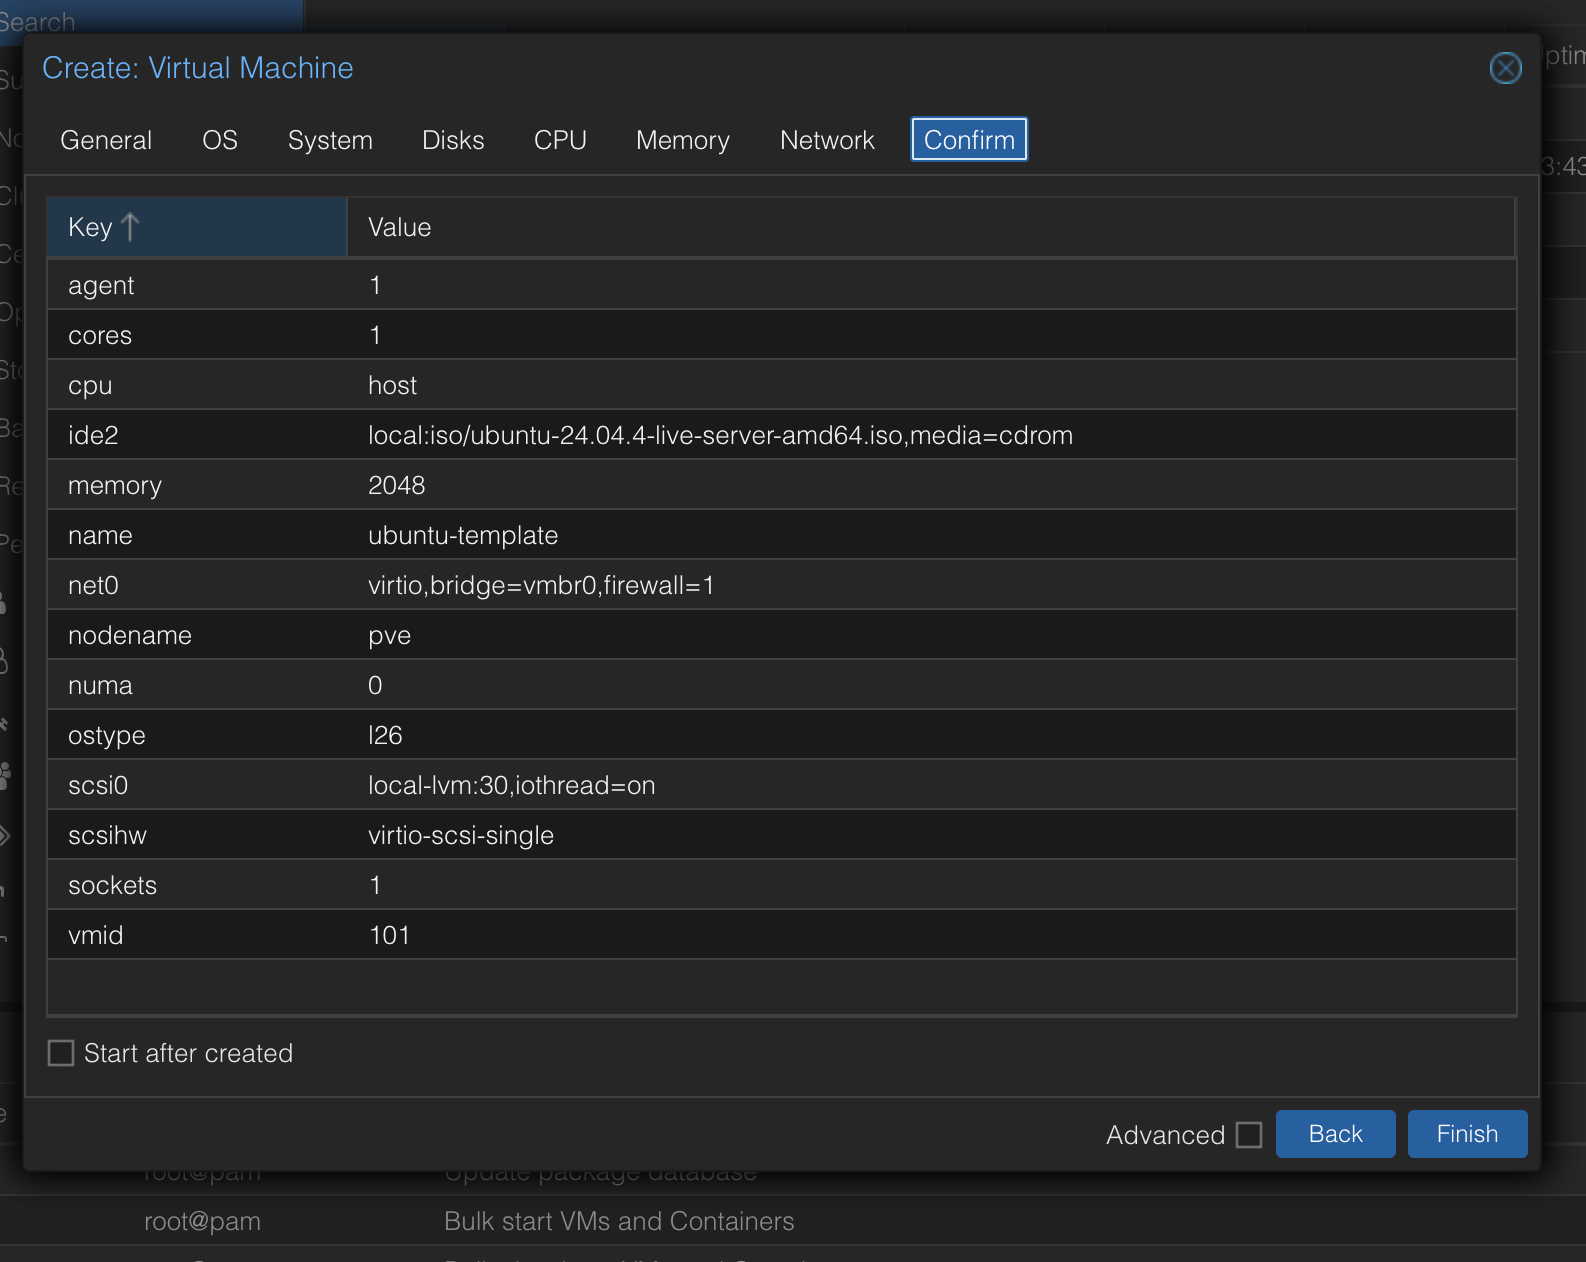
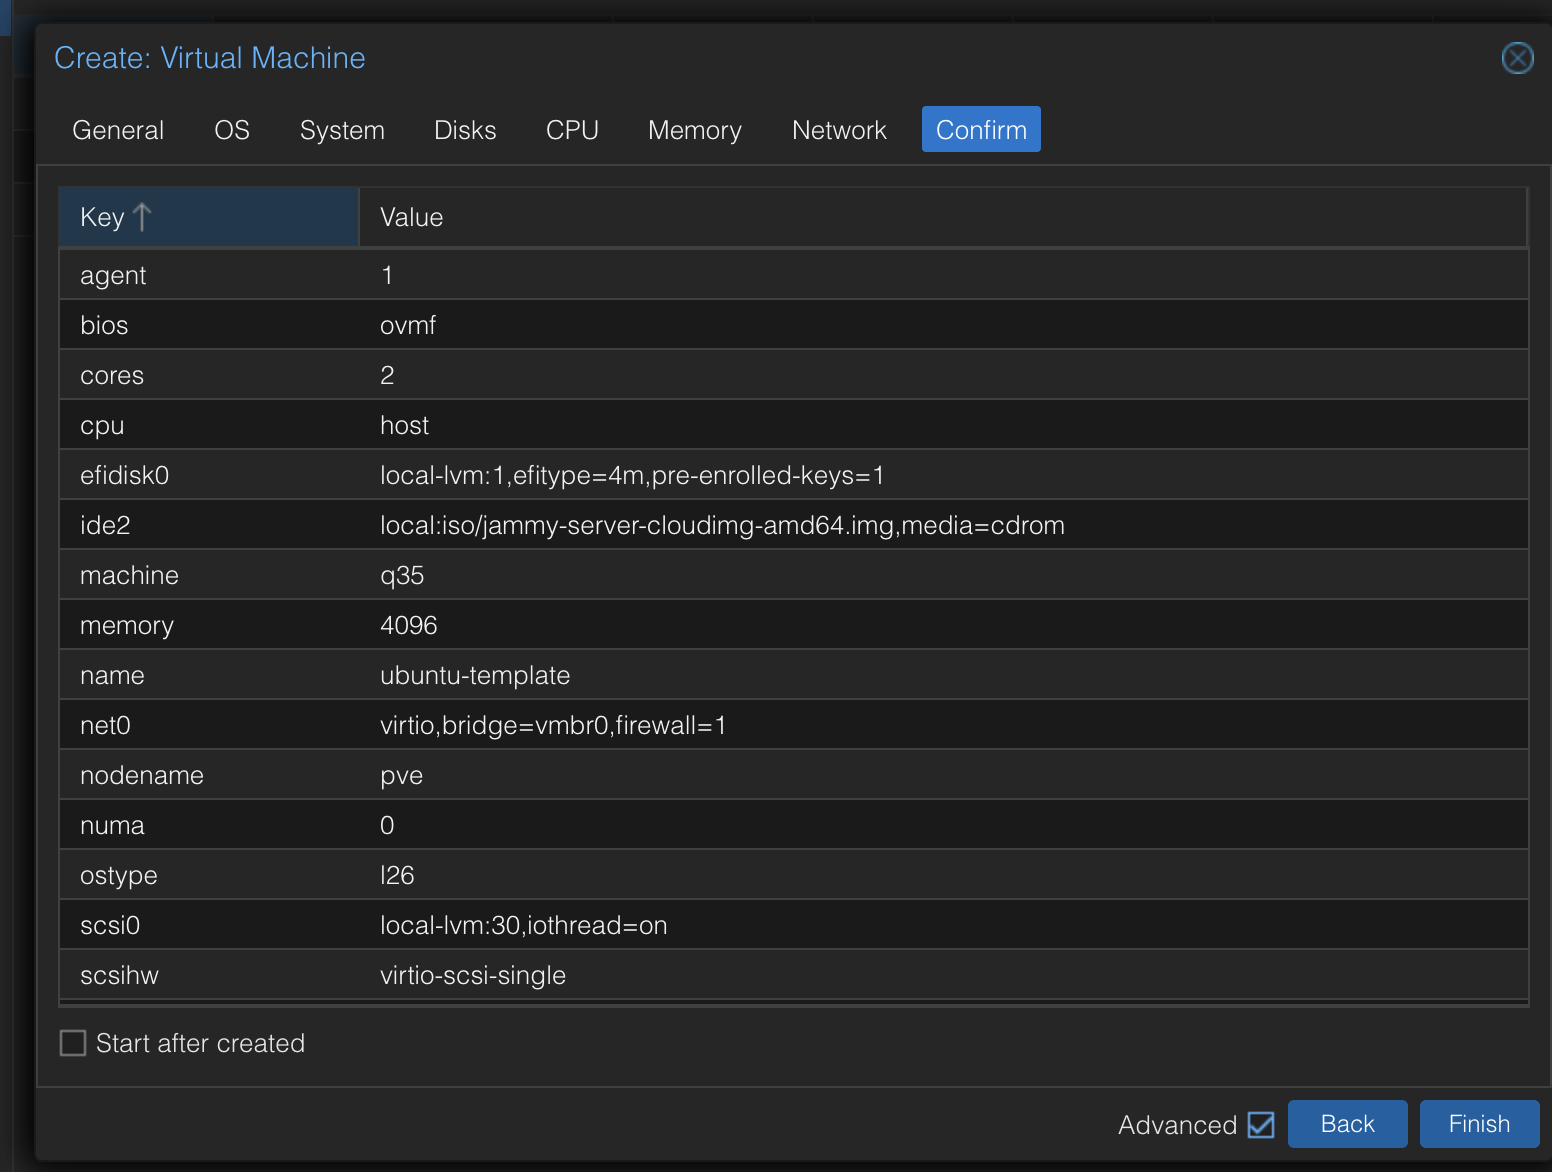
update img

diff --git a/README.md b/README.md
@@ -313,6 +313,8 @@ terraform init
 
 ![image](./img/basic_vm_8.png)
 
+![image](./img/basic_vm_9.png)
+
 🔴🟠🟡🟢🔵🟣 🔴🟠🟡🟢🔵🟣 🔴🟠🟡🟢🔵🟣 🔴🟠🟡🟢🔵🟣 
 
 ‼️ To automate deployments using Terraform, ensure that a Cloud-Init Drive is added to Ubuntu VM template hardware configuration (select "Add" -> "CloudInit Drive" in the Proxmox interface) after installing the Ubuntu OS.
@@ -327,7 +329,10 @@ terraform init
 
 ![image](./img/add_cloudinit_driver_3.png)
 
-3. Start VM ubuntu-template and complete VM configuration by clicking console
+3. tart VM ubuntu-template and complete VM configuration by clicking console
+- Remove CD/DVD drive from hardware and verify boot order
+
+![image](./img/ubuntu_template_boot_order_1.png)
 
 ![image](./img/configu_vm_template_1.png)
 password: 12345